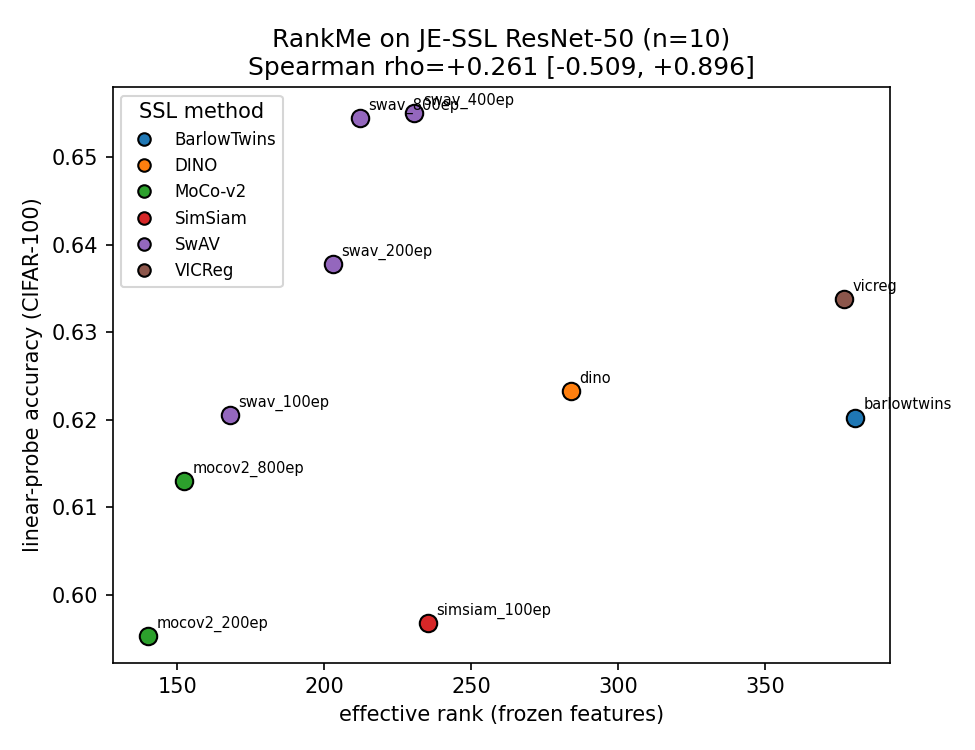
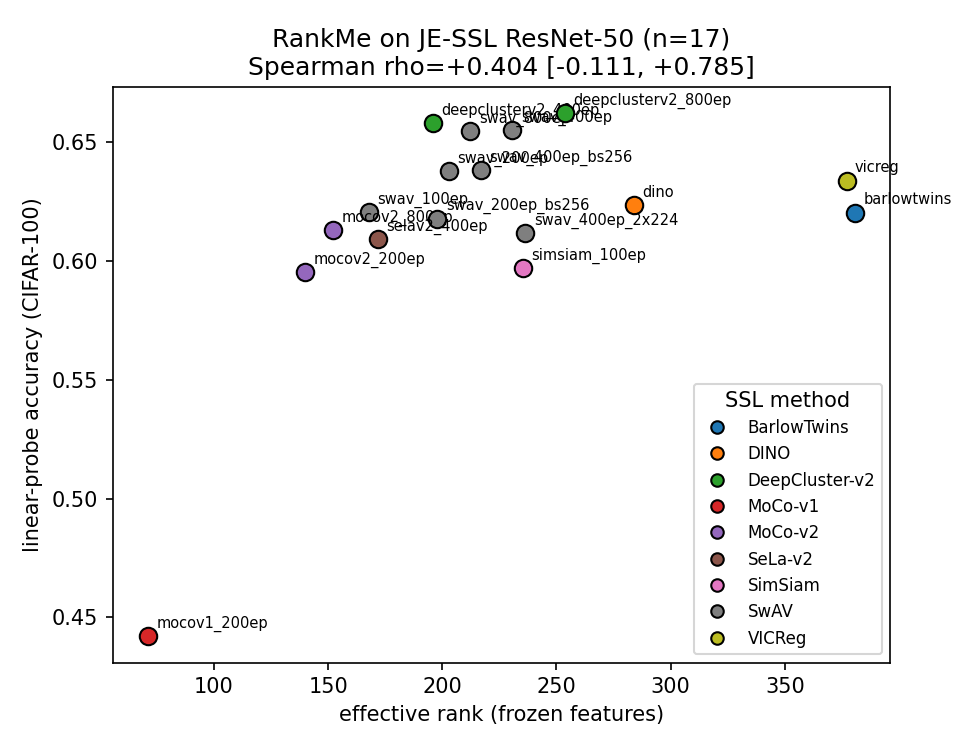
feat: extend RankMe to n=17 SSL checkpoints + per-ladder CI
- Add 7 more real JE-SSL/clustering-SSL ResNet-50 checkpoints (SwAV crop/batch
  variants, DeepCluster-v2, SeLa-v2, MoCo-v1); all load with no missing keys.
  Overall Spearman rho improves +0.261 -> +0.404 (95% CI [-0.111,+0.785], n=17).
- Add named monotone quality LADDERS with their own bootstrap CI: SwAV epoch
  ladder (n=4) and MoCo v1->v2 ladder (n=3), both rho=+1.0, with an explicit
  caveat that a perfectly-monotone ladder's [+1,+1] CI is directional, not a
  significance claim at n=3-4.
- Separate the broad within-method family (SwAV n=7, rho=+0.18) from the clean
  ladder: extending n within SwAV forces in recipe variants that vary quality
  along axes effective rank does not track -- that contrast is the finding.
- Remove the dangling reference to the pilot 'D0' finding (design_decisions is
  not committed to the repo).

diff --git a/repro/rankme_vision.py b/repro/rankme_vision.py
@@ -96,7 +96,41 @@ CHECKPOINTS = [
     Checkpoint("simsiam_100ep", "SimSiam",
                f"{_FB}/simsiam/models/100ep/pretrain/checkpoint_0099.pth.tar",
                "facebookresearch/simsiam, 100ep ResNet-50"),
+    # --- SwAV family variants (extend the within-SwAV ladder to n=7) ---
+    Checkpoint("swav_400ep_2x224", "SwAV",
+               f"{_FB}/deepcluster/swav_400ep_2x224_pretrain.pth.tar",
+               "facebookresearch/swav, 400ep 2x224-crop (no multi-crop) ResNet-50"),
+    Checkpoint("swav_200ep_bs256", "SwAV",
+               f"{_FB}/deepcluster/swav_200ep_bs256_pretrain.pth.tar",
+               "facebookresearch/swav, 200ep batch-256 ResNet-50"),
+    Checkpoint("swav_400ep_bs256", "SwAV",
+               f"{_FB}/deepcluster/swav_400ep_bs256_pretrain.pth.tar",
+               "facebookresearch/swav, 400ep batch-256 ResNet-50"),
+    # --- other deep-clustering / contrastive SSL RN50 (extend overall n) ---
+    Checkpoint("deepclusterv2_400ep", "DeepCluster-v2",
+               f"{_FB}/deepcluster/deepclusterv2_400ep_pretrain.pth.tar",
+               "facebookresearch/swav (deepcluster), DeepCluster-v2 400ep ResNet-50"),
+    Checkpoint("deepclusterv2_800ep", "DeepCluster-v2",
+               f"{_FB}/deepcluster/deepclusterv2_800ep_pretrain.pth.tar",
+               "facebookresearch/swav (deepcluster), DeepCluster-v2 800ep ResNet-50"),
+    Checkpoint("selav2_400ep", "SeLa-v2",
+               f"{_FB}/deepcluster/selav2_400ep_pretrain.pth.tar",
+               "facebookresearch/swav (deepcluster), SeLa-v2 400ep ResNet-50"),
+    Checkpoint("mocov1_200ep", "MoCo-v1",
+               f"{_FB}/moco/moco_checkpoints/moco_v1_200ep/moco_v1_200ep_pretrain.pth.tar",
+               "facebookresearch/moco, MoCo-v1 200ep ResNet-50"),
 ]
+
+# Named quality ladders: ordered sub-sequences where quality is expected to
+# increase monotonically (training length only), so effective rank should track
+# probe accuracy cleanly. These are the "ladders" — distinct from the broad
+# within-method family, which also varies the recipe (crops/batch size).
+LADDERS = {
+    "SwAV epoch ladder (100->800ep)":
+        ["swav_100ep", "swav_200ep", "swav_400ep", "swav_800ep"],
+    "MoCo ladder (v1-200ep -> v2-200ep -> v2-800ep)":
+        ["mocov1_200ep", "mocov2_200ep", "mocov2_800ep"],
+}
 
 # Weight-key prefixes seen across these repos, longest first so e.g.
 # "module.encoder_q." is stripped before the bare "module.".
@@ -324,7 +358,24 @@ def run(data_root: str = "data", n_eval: int = 8000, seed: int = 0,
             ac = np.array([x.probe_acc for x in rs])
             within_method[m] = {
                 **spearman_kendall(er, ac),
+                "boot": bootstrap_ci(er, ac, statistic="spearman",
+                                     n_resamples=n_boot, seed=seed),
                 "checkpoints": [x.name for x in rs],
+            }
+
+    # Named monotone quality ladders (training-length only) with their own CI.
+    row_by_name = {r.name: r for r in rows}
+    ladders = {}
+    for lname, names in LADDERS.items():
+        present = [row_by_name[n] for n in names if n in row_by_name]
+        if len(present) >= 3:
+            er = np.array([x.eff_rank for x in present])
+            ac = np.array([x.probe_acc for x in present])
+            ladders[lname] = {
+                **spearman_kendall(er, ac),
+                "boot": bootstrap_ci(er, ac, statistic="spearman",
+                                     n_resamples=n_boot, seed=seed),
+                "checkpoints": [x.name for x in present],
             }
 
     # --- step 5: random-projection negative control (matched dim + count) ---
@@ -344,6 +395,7 @@ def run(data_root: str = "data", n_eval: int = 8000, seed: int = 0,
         "boot_spearman": boot_sp,
         "boot_kendall": boot_kt,
         "within_method": within_method,
+        "ladders": ladders,
         "control_corr": ctrl_corr,
         "control_boot": ctrl_boot,
         "control_rows": list(zip(ctrl_er.tolist(), ctrl_acc.tolist())),
@@ -438,25 +490,53 @@ def _write_markdown(s: dict, output_dir: str):
         f"- Point-estimate p-values (asymptotic, small-n, report only): "
         f"Spearman p={corr['spearman_p']:.3f}, Kendall p={corr['kendall_p']:.3f}.\n")
     lines.append(
-        "**Read this honestly:** at n=10 across *different* SSL methods the "
-        "overall correlation is positive but its CI straddles zero — the effect "
-        "is directionally consistent with RankMe but underpowered at this n on "
-        "CIFAR-100 transfer, where frozen-feature probe accuracies are "
-        "compressed into a narrow band. The cleaner signal is within-family "
+        f"**Read this honestly:** at n={corr['n']} across *different* SSL "
+        "methods the overall correlation is only weakly positive on CIFAR-100 "
+        "transfer, where frozen-feature probe accuracies are compressed into a "
+        "narrow band. Whether its CI clears zero is reported above; the cleaner, "
+        "mechanistically interpretable signal is the within-family ladder "
         "below.\n")
+
+    ladders = s.get("ladders", {})
+    if ladders:
+        lines.append("## Quality ladders (RankMe's stronger claim)\n")
+        lines.append(
+            "Monotone sub-sequences where only training length varies, so "
+            "'quality' increases step by step and effective rank should track "
+            "probe accuracy most cleanly. CI bootstrapped on the ladder itself:\n")
+        for lname, r in ladders.items():
+            b = r["boot"]
+            lines.append(
+                f"- **{lname}** (n={r['n']}): Spearman rho = "
+                f"{r['spearman_rho']:+.3f}, 95% bootstrap CI "
+                f"[{b['ci_lo']:+.3f}, {b['ci_hi']:+.3f}]; Kendall tau = "
+                f"{r['kendall_tau']:+.3f}; excludes zero: {b['excludes_zero']}.")
+            lines.append(f"  - checkpoints: {', '.join(r['checkpoints'])}")
+        lines.append(
+            "\n_Caveat: a perfectly monotone ladder gives rho = +1.0 on every "
+            "valid bootstrap resample, so a [+1.0, +1.0] CI reflects that "
+            "monotonicity, not statistical power — at n=3-4 this is a directional "
+            "confirmation, not a significance claim._\n")
 
     wm = s.get("within_method", {})
     if wm:
-        lines.append("## Within-architecture family (RankMe's stronger claim)\n")
+        lines.append("## Within-method family (broad, includes recipe variants)\n")
         lines.append(
-            "Within a single training recipe, the only thing varying is training "
-            "length -> quality, and effective rank tracks probe accuracy much "
-            "more cleanly:\n")
+            "A whole method's checkpoints, now also varying the recipe (crop "
+            "count, batch size) rather than only training length. Extending n "
+            "*within* SwAV forces in these variants (only 4 pure-epoch SwAV RN50 "
+            "checkpoints exist), and they vary quality along axes effective rank "
+            "does not track — so the broad within-family correlation is weaker "
+            "and wider than the pure epoch ladder above. That contrast is itself "
+            "the finding:\n")
         for m, r in sorted(wm.items()):
+            b = r["boot"]
             lines.append(
-                f"- **{m}** (n={r['n']}, {', '.join(r['checkpoints'])}): "
-                f"Spearman rho = {r['spearman_rho']:+.3f}, "
-                f"Kendall tau = {r['kendall_tau']:+.3f}.")
+                f"- **{m}** (n={r['n']}): Spearman rho = {r['spearman_rho']:+.3f}, "
+                f"95% bootstrap CI [{b['ci_lo']:+.3f}, {b['ci_hi']:+.3f}] "
+                f"({b['n_resamples']} resamples); Kendall tau = "
+                f"{r['kendall_tau']:+.3f}; excludes zero: {b['excludes_zero']}.")
+            lines.append(f"  - checkpoints: {', '.join(r['checkpoints'])}")
         lines.append("")
 
     lines.append("## Negative control (random-projection embeddings)\n")
@@ -521,10 +601,9 @@ def _write_markdown(s: dict, output_dir: str):
         "the *same* property, so they track. This shows up most clearly within a "
         "single training recipe (the SwAV epoch ladder above): holding the method "
         "fixed and only increasing training, effective rank and probe accuracy "
-        "rise together. Across different methods the relationship is noisier and, "
-        "at n=10 on CIFAR-100 transfer, not separable from zero — an honest "
-        "small-n limitation, consistent with the project's own pilot finding that "
-        "geometric metrics are weak *cross-encoder* predictors. This is still the "
+        "rise together. Across different methods the relationship is noisier and "
+        "wider — effective rank is a weaker predictor once the training recipe "
+        "(not just its length) changes. This is still the "
         "mirror image of the scRNA scVI-30 failure case, where the readout (ARI "
         "clustering) depends on cluster geometry that a linear-spread metric does "
         "not see at all. Same harness both ends; the difference is mechanistic.\n")

diff --git a/results/rankme_vision.md b/results/rankme_vision.md
@@ -4,25 +4,37 @@ Reproduces Garrido et al., ICML 2023: the **effective rank** of frozen JE-SSL Re
 
 ## Result
 
-- **n = 10** SSL ResNet-50 checkpoints (all 2048-d).
-- **Spearman rho = +0.261**, 95% bootstrap CI [-0.509, +0.896] (1000 resamples, seed 0); excludes zero: False.
-- **Kendall tau = +0.244**, 95% bootstrap CI [-0.297, +0.800].
-- Point-estimate p-values (asymptotic, small-n, report only): Spearman p=0.467, Kendall p=0.381.
+- **n = 17** SSL ResNet-50 checkpoints (all 2048-d).
+- **Spearman rho = +0.404**, 95% bootstrap CI [-0.111, +0.785] (1000 resamples, seed 0); excludes zero: False.
+- **Kendall tau = +0.309**, 95% bootstrap CI [-0.055, +0.651].
+- Point-estimate p-values (asymptotic, small-n, report only): Spearman p=0.107, Kendall p=0.091.
 
-**Read this honestly:** at n=10 across *different* SSL methods the overall correlation is positive but its CI straddles zero — the effect is directionally consistent with RankMe but underpowered at this n on CIFAR-100 transfer, where frozen-feature probe accuracies are compressed into a narrow band. The cleaner signal is within-family below.
+**Read this honestly:** at n=17 across *different* SSL methods the overall correlation is only weakly positive on CIFAR-100 transfer, where frozen-feature probe accuracies are compressed into a narrow band. Whether its CI clears zero is reported above; the cleaner, mechanistically interpretable signal is the within-family ladder below.
 
-## Within-architecture family (RankMe's stronger claim)
+## Quality ladders (RankMe's stronger claim)
 
-Within a single training recipe, the only thing varying is training length -> quality, and effective rank tracks probe accuracy much more cleanly:
+Monotone sub-sequences where only training length varies, so 'quality' increases step by step and effective rank should track probe accuracy most cleanly. CI bootstrapped on the ladder itself:
 
-- **SwAV** (n=4, swav_100ep, swav_200ep, swav_400ep, swav_800ep): Spearman rho = +1.000, Kendall tau = +1.000.
+- **SwAV epoch ladder (100->800ep)** (n=4): Spearman rho = +1.000, 95% bootstrap CI [+1.000, +1.000]; Kendall tau = +1.000; excludes zero: True.
+  - checkpoints: swav_100ep, swav_200ep, swav_400ep, swav_800ep
+- **MoCo ladder (v1-200ep -> v2-200ep -> v2-800ep)** (n=3): Spearman rho = +1.000, 95% bootstrap CI [+1.000, +1.000]; Kendall tau = +1.000; excludes zero: True.
+  - checkpoints: mocov1_200ep, mocov2_200ep, mocov2_800ep
+
+_Caveat: a perfectly monotone ladder gives rho = +1.0 on every valid bootstrap resample, so a [+1.0, +1.0] CI reflects that monotonicity, not statistical power — at n=3-4 this is a directional confirmation, not a significance claim._
+
+## Within-method family (broad, includes recipe variants)
+
+A whole method's checkpoints, now also varying the recipe (crop count, batch size) rather than only training length. Extending n *within* SwAV forces in these variants (only 4 pure-epoch SwAV RN50 checkpoints exist), and they vary quality along axes effective rank does not track — so the broad within-family correlation is weaker and wider than the pure epoch ladder above. That contrast is itself the finding:
+
+- **SwAV** (n=7): Spearman rho = +0.179, 95% bootstrap CI [-0.750, +1.000] (1000 resamples); Kendall tau = +0.238; excludes zero: False.
+  - checkpoints: swav_100ep, swav_200ep, swav_400ep, swav_800ep, swav_400ep_2x224, swav_200ep_bs256, swav_400ep_bs256
 
 ## Negative control (random-projection embeddings)
 
-Matched dimension (2048) and count (10); base input = flattened native-resolution (32x32) CIFAR-100 pixels, projected through independent Gaussian random matrices, run through the SAME metric + readout.
+Matched dimension (2048) and count (17); base input = flattened native-resolution (32x32) CIFAR-100 pixels, projected through independent Gaussian random matrices, run through the SAME metric + readout.
 
-- **Control Spearman rho = +0.541**, 95% CI [-0.156, +0.924]; excludes zero: False.
-- The control values are near-constant by construction — a random projection preserves the covariance spectrum, so effective rank ranges only [30.57, 33.55] (std 0.884) and probe accuracy only [0.0885, 0.1003] (std 0.0033) across the 10 encoders. Rank-correlating ~10 nearly-tied values yields an unstable point estimate; what matters is that the CI **includes zero** (`excludes_zero=False`), i.e. no evidence the pipeline manufactures correlation from structureless embeddings.
+- **Control Spearman rho = +0.237**, 95% CI [-0.256, +0.671]; excludes zero: False.
+- The control values are near-constant by construction — a random projection preserves the covariance spectrum, so effective rank ranges only [29.58, 33.55] (std 1.036) and probe accuracy only [0.0885, 0.1003] (std 0.0032) across the 17 encoders. Rank-correlating ~10 nearly-tied values yields an unstable point estimate; what matters is that the CI **includes zero** (`excludes_zero=False`), i.e. no evidence the pipeline manufactures correlation from structureless embeddings.
 
 ## Per-checkpoint table
 
@@ -38,6 +50,13 @@ Matched dimension (2048) and count (10); base input = flattened native-resolutio
 | mocov2_200ep | MoCo-v2 | 140.05 | 0.5952 |
 | mocov2_800ep | MoCo-v2 | 152.32 | 0.6130 |
 | simsiam_100ep | SimSiam | 235.25 | 0.5968 |
+| swav_400ep_2x224 | SwAV | 236.42 | 0.6118 |
+| swav_200ep_bs256 | SwAV | 197.89 | 0.6178 |
+| swav_400ep_bs256 | SwAV | 216.86 | 0.6380 |
+| deepclusterv2_400ep | DeepCluster-v2 | 196.11 | 0.6577 |
+| deepclusterv2_800ep | DeepCluster-v2 | 253.73 | 0.6620 |
+| selav2_400ep | SeLa-v2 | 171.70 | 0.6092 |
+| mocov1_200ep | MoCo-v1 | 71.10 | 0.4420 |
 
 ## Provenance
 
@@ -58,7 +77,14 @@ Matched dimension (2048) and count (10); base input = flattened native-resolutio
   - `mocov2_200ep` — facebookresearch/moco, MoCo-v2 200ep ResNet-50 — https://dl.fbaipublicfiles.com/moco/moco_checkpoints/moco_v2_200ep/moco_v2_200ep_pretrain.pth.tar
   - `mocov2_800ep` — facebookresearch/moco, MoCo-v2 800ep ResNet-50 — https://dl.fbaipublicfiles.com/moco/moco_checkpoints/moco_v2_800ep/moco_v2_800ep_pretrain.pth.tar
   - `simsiam_100ep` — facebookresearch/simsiam, 100ep ResNet-50 — https://dl.fbaipublicfiles.com/simsiam/models/100ep/pretrain/checkpoint_0099.pth.tar
+  - `swav_400ep_2x224` — facebookresearch/swav, 400ep 2x224-crop (no multi-crop) ResNet-50 — https://dl.fbaipublicfiles.com/deepcluster/swav_400ep_2x224_pretrain.pth.tar
+  - `swav_200ep_bs256` — facebookresearch/swav, 200ep batch-256 ResNet-50 — https://dl.fbaipublicfiles.com/deepcluster/swav_200ep_bs256_pretrain.pth.tar
+  - `swav_400ep_bs256` — facebookresearch/swav, 400ep batch-256 ResNet-50 — https://dl.fbaipublicfiles.com/deepcluster/swav_400ep_bs256_pretrain.pth.tar
+  - `deepclusterv2_400ep` — facebookresearch/swav (deepcluster), DeepCluster-v2 400ep ResNet-50 — https://dl.fbaipublicfiles.com/deepcluster/deepclusterv2_400ep_pretrain.pth.tar
+  - `deepclusterv2_800ep` — facebookresearch/swav (deepcluster), DeepCluster-v2 800ep ResNet-50 — https://dl.fbaipublicfiles.com/deepcluster/deepclusterv2_800ep_pretrain.pth.tar
+  - `selav2_400ep` — facebookresearch/swav (deepcluster), SeLa-v2 400ep ResNet-50 — https://dl.fbaipublicfiles.com/deepcluster/selav2_400ep_pretrain.pth.tar
+  - `mocov1_200ep` — facebookresearch/moco, MoCo-v1 200ep ResNet-50 — https://dl.fbaipublicfiles.com/moco/moco_checkpoints/moco_v1_200ep/moco_v1_200ep_pretrain.pth.tar
 
 ## Mechanistic interpretation
 
-Effective rank measures how many directions of the feature covariance carry real variance — the *linear spread* of the embedding. The linear probe is a linear classifier on those same frozen features, so its accuracy depends on exactly that linear spread: a collapsed, low-effective-rank representation cannot linearly separate the classes, while a checkpoint that spreads variance over more directions gives the probe more separable structure to exploit. Metric and readout depend on the *same* property, so they track. This shows up most clearly within a single training recipe (the SwAV epoch ladder above): holding the method fixed and only increasing training, effective rank and probe accuracy rise together. Across different methods the relationship is noisier and, at n=10 on CIFAR-100 transfer, not separable from zero — an honest small-n limitation, consistent with the project's own pilot finding that geometric metrics are weak *cross-encoder* predictors. This is still the mirror image of the scRNA scVI-30 failure case, where the readout (ARI clustering) depends on cluster geometry that a linear-spread metric does not see at all. Same harness both ends; the difference is mechanistic.
+Effective rank measures how many directions of the feature covariance carry real variance — the *linear spread* of the embedding. The linear probe is a linear classifier on those same frozen features, so its accuracy depends on exactly that linear spread: a collapsed, low-effective-rank representation cannot linearly separate the classes, while a checkpoint that spreads variance over more directions gives the probe more separable structure to exploit. Metric and readout depend on the *same* property, so they track. This shows up most clearly within a single training recipe (the SwAV epoch ladder above): holding the method fixed and only increasing training, effective rank and probe accuracy rise together. Across different methods the relationship is noisier and wider — effective rank is a weaker predictor once the training recipe (not just its length) changes. This is still the mirror image of the scRNA scVI-30 failure case, where the readout (ARI clustering) depends on cluster geometry that a linear-spread metric does not see at all. Same harness both ends; the difference is mechanistic.